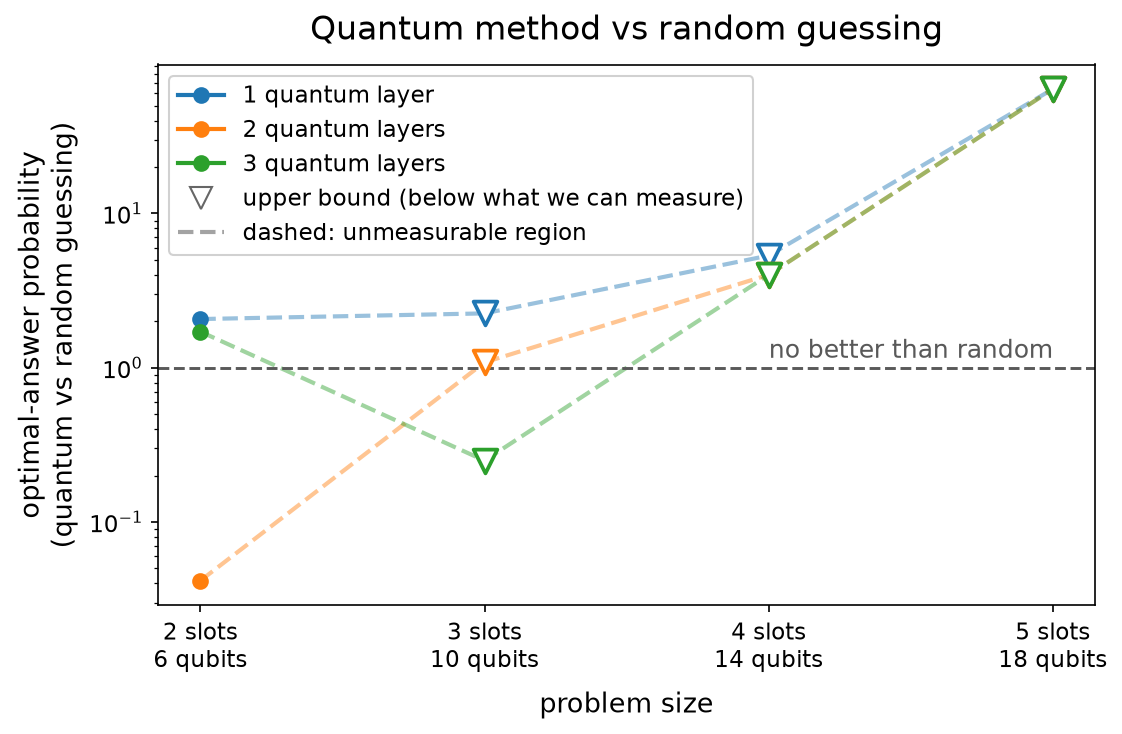
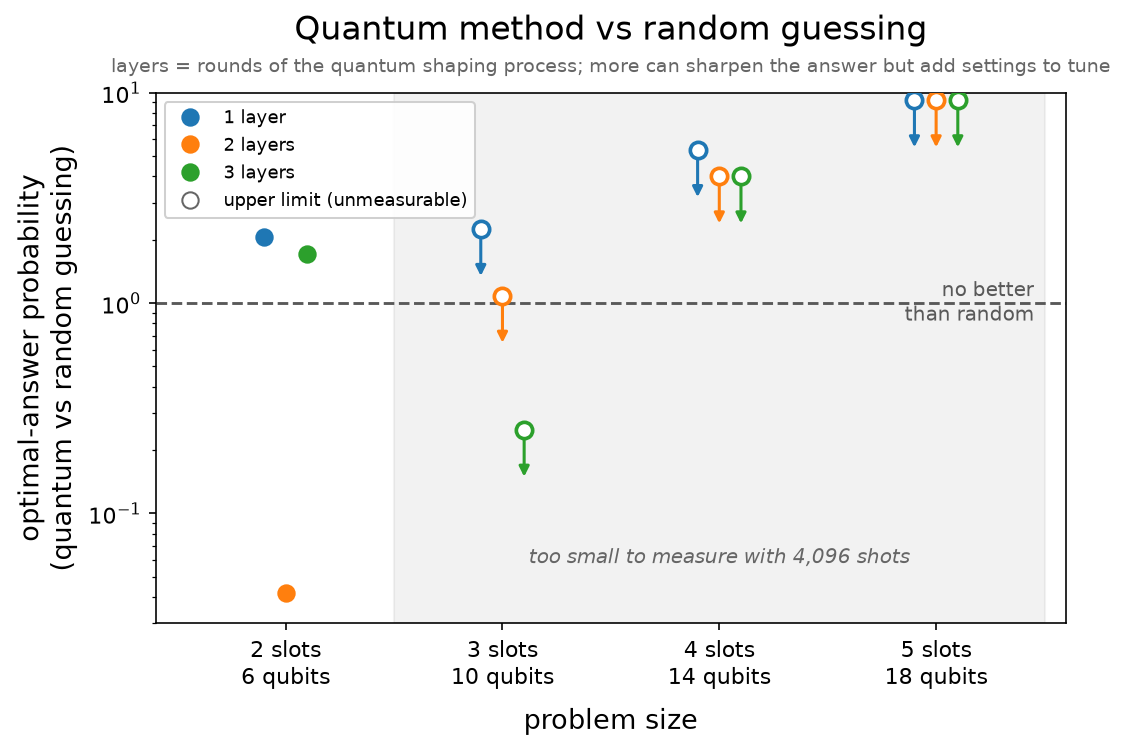
Revise mass-ratio web figure: upper-limit markers, unmeasurable band, layer gloss

diff --git a/scripts/make_mass_ratio_figure.py b/scripts/make_mass_ratio_figure.py
@@ -10,7 +10,19 @@ docs/results/ (which experiment_scaling.make_all_plots regenerates on a full
 sweep). Separate paths guarantee a future sweep can never overwrite this polished,
 honesty-annotated figure with the plain experiment version.
 
-    python scripts/make_mass_ratio_figure.py
+Presentation choices that keep the picture honest at a glance:
+  - Points where at least one seed's optimal mass fell below the 1/4096 shot-noise
+    floor are only UPPER LIMITS. They are drawn as unconnected hollow markers with
+    a downward arrow (the standard upper-limit convention) and are NEVER joined by
+    lines. Earlier dashed lines through these points rose steeply to the right and
+    read as "advantage grows with scale" - the exact misreading to avoid. The
+    ceilings rise only because the uniform baseline shrinks exponentially with
+    qubits, inflating what 4096 shots could even detect; the real signal there is
+    unmeasurable, not large.
+  - The all-upper-limit region is shaded and labeled "too small to measure".
+  - The y-axis is capped near 10 so the inflated large-size ceilings do not
+    dominate the frame. Any upper limit above the cap is drawn at the cap with its
+    arrow (its true ceiling is off-scale and meaningless).
 
 Caption suggestion (for the blog post):
   This chart asks a simple question: does the quantum optimizer (QAOA) find the
@@ -18,12 +30,20 @@ Caption suggestion (for the blog post):
   grey line beat random; points on it are no better than chance. Only at the
   smallest problem (2 slots, filled dots) do all our runs place enough
   probability on the best answer to measure this directly, and even there the
-  result is mixed: a modest edge at 1 and 3 quantum layers, but worse than random
-  at 2. For every larger problem, at least one run's success falls below the
-  resolution of 4096 samples, so those values are only upper bounds (hollow
-  triangles, dashed lines) and cannot confirm any advantage. The honest takeaway:
-  a small, depth-dependent edge at the smallest size, and no measurable quantum
-  advantage as the problem scales up.
+  result is mixed: a modest edge at 1 and 3 layers, but worse than random at 2.
+  For every larger problem, at least one run's success falls below the resolution
+  of 4096 samples, so those values are only upper limits (hollow markers with
+  downward arrows in the shaded band) and cannot confirm any advantage; some
+  ceilings are off the top of the chart and are drawn at the cap. The honest
+  takeaway: a small, depth-dependent edge at the smallest size, and no measurable
+  quantum advantage as the problem scales up.
+
+  Each "layer" is one round of the quantum algorithm's shaping process - more
+  layers can sharpen the answer in theory, but they also add more settings to tune
+  (and, on real hardware, more noise). That is also why deeper is not always
+  better in the data itself: each layer adds tunable angles for the classical
+  optimizer to set, and it can land badly - which is why the 2-layer point at 2
+  slots sits below the 1-layer one.
 """
 
 import sys
@@ -35,81 +55,98 @@ matplotlib.use("Agg")
 
 import matplotlib.pyplot as plt  # noqa: E402
 import numpy as np  # noqa: E402
+from matplotlib.lines import Line2D  # noqa: E402
 
 sys.path.insert(0, str(Path(__file__).resolve().parent))
 import experiment_scaling as exp  # noqa: E402
 
-# Curated web figure path — separate from docs/results/ so the experiment sweep
-# can never overwrite it (see module docstring).
 OUT = Path(__file__).resolve().parent.parent / "docs" / "figures" / "web" / "mass_ratio.png"
+Y_CAP = 10.0  # inflated large-size ceilings are clamped here
+
+
+def _draw_upper_limit(ax, x, y, color):
+    """Hollow marker with a short downward arrow (upper-limit convention)."""
+    clamped = y > Y_CAP
+    yv = 0.92 * Y_CAP if clamped else y
+    ax.plot([x], [yv], marker="o", markersize=8, markerfacecolor="white",
+            markeredgecolor=color, markeredgewidth=1.8, linestyle="none", zorder=5)
+    ax.annotate("", xy=(x, yv / 1.75), xytext=(x, yv / 1.06),
+                arrowprops=dict(arrowstyle="-|>", color=color, lw=1.5), zorder=5)
+    return clamped
 
 
 def main():
     rows = [r for r in exp.load_results() if not np.isnan(r.get("mass_ratio", float("nan")))]
     slot_counts = sorted({r["T"] for r in rows})
     layer_counts = sorted({r["reps"] for r in rows})
+    colors = {reps: f"C{i}" for i, reps in enumerate(layer_counts)}
 
-    fig, ax = plt.subplots(figsize=(7.6, 5.0))
-    colors = [f"C{i}" for i in range(len(layer_counts))]
+    fig, ax = plt.subplots(figsize=(7.8, 5.2))
 
-    for color, reps in zip(colors, layer_counts):
-        pts = []  # (T, ratio, is_upper_bound)
+    # For each T, is every layer count only an upper limit? (the unmeasurable region)
+    all_bound_T = []
+    for T in slot_counts:
+        groups = [[r for r in rows if r["T"] == T and r["reps"] == reps] for reps in layer_counts]
+        groups = [g for g in groups if g]
+        if groups and all(any(r["mass_ratio_is_upper_bound"] for r in g) for g in groups):
+            all_bound_T.append(T)
+
+    if all_bound_T:
+        ax.axvspan(min(all_bound_T) - 0.5, max(all_bound_T) + 0.5,
+                   color="0.5", alpha=0.1, zorder=0)
+        ax.text((min(all_bound_T) + max(all_bound_T)) / 2, 0.055,
+                "too small to measure with 4,096 shots",
+                ha="center", va="bottom", fontsize=10, style="italic", color="0.4")
+
+    clamped_any = False
+    for reps in layer_counts:
+        color = colors[reps]
+        dodge = (reps - np.mean(layer_counts)) * 0.10
+        measured = []
         for T in slot_counts:
             group = [r for r in rows if r["T"] == T and r["reps"] == reps]
             if not group:
                 continue
-            # The plotted value is a seed-average; if ANY seed fell below the
-            # measurement floor (its ratio used 1/4096 as a placeholder), the
-            # average is itself only an upper bound.
-            pts.append((T, float(np.mean([r["mass_ratio"] for r in group])),
-                        any(r["mass_ratio_is_upper_bound"] for r in group)))
+            y = float(np.mean([r["mass_ratio"] for r in group]))
+            x = T + dodge
+            if any(r["mass_ratio_is_upper_bound"] for r in group):
+                clamped_any |= _draw_upper_limit(ax, x, y, color)
+            else:
+                measured.append((x, y))
+        if measured:  # solid measured points, joined only to each other
+            xs, ys = zip(*measured)
+            ax.plot(xs, ys, color=color, marker="o", markersize=8, linewidth=2, zorder=4)
 
-        # Draw each segment solid where measured, dashed/faded where it leads into
-        # an upper-bound point, so a rising line is never mistaken for a real gain.
-        for (x0, y0, u0), (x1, y1, u1) in zip(pts, pts[1:]):
-            uncertain = u0 or u1
-            ax.plot([x0, x1], [y0, y1], color=color, linewidth=2, zorder=2,
-                    linestyle="--" if uncertain else "-", alpha=0.45 if uncertain else 1.0)
-        conf = [(x, y) for x, y, u in pts if not u]
-        if conf:
-            ax.plot(*zip(*conf), linestyle="none", marker="o", markersize=7, color=color)
-        ub = [(x, y) for x, y, u in pts if u]
-        if ub:
-            ax.scatter(*zip(*ub), marker="v", s=130, facecolors="white",
-                       edgecolors=color, linewidths=1.8, zorder=4)
-
-    # Reference line: parity with random guessing.
-    ax.axhline(1.0, color="0.35", linestyle="--", linewidth=1.4)
-    ax.text(slot_counts[-1], 1.06, "no better than random", color="0.35",
-            fontsize=12, ha="right", va="bottom")
+    # Parity reference.
+    ax.axhline(1.0, color="0.35", linestyle="--", linewidth=1.4, zorder=1)
+    ax.text(slot_counts[-1] + 0.45, 1.0, "no better\nthan random", color="0.35",
+            fontsize=10, ha="right", va="center")
 
     ax.set_yscale("log")
+    ax.set_ylim(0.03, Y_CAP)
+    ax.set_xlim(slot_counts[0] - 0.6, slot_counts[-1] + 0.6)
     ax.set_xticks(slot_counts)
     ax.set_xticklabels([f"{T} slots\n{4 * T - 2} qubits" for T in slot_counts], fontsize=11)
     ax.tick_params(axis="y", labelsize=11)
     ax.set_xlabel("problem size", fontsize=13, labelpad=8)
     ax.set_ylabel("optimal-answer probability\n(quantum vs random guessing)", fontsize=13)
-    ax.set_title("Quantum method vs random guessing", fontsize=16, pad=12)
+    ax.set_title("Quantum method vs random guessing", fontsize=16, pad=26)
+    ax.text(0.5, 1.03,
+            "layers = rounds of the quantum shaping process; more can sharpen the "
+            "answer but add settings to tune",
+            transform=ax.transAxes, ha="center", va="bottom", fontsize=9.5, color="0.4")
 
-    # Legend: one entry per layer count, plus plain-language notes on the markers.
-    handles = [
-        plt.Line2D([], [], color=color, marker="o", markersize=7, linewidth=2,
-                   label=f"{reps} quantum layer" + ("s" if reps > 1 else ""))
-        for color, reps in zip(colors, layer_counts)
-    ]
-    handles += [
-        plt.Line2D([], [], marker="v", markerfacecolor="white", markeredgecolor="0.4",
-                   linestyle="none", markersize=11,
-                   label="upper bound (below what we can measure)"),
-        plt.Line2D([], [], color="0.4", linestyle="--", linewidth=2, alpha=0.6,
-                   label="dashed: unmeasurable region"),
-    ]
-    ax.legend(handles=handles, fontsize=11, loc="upper left", framealpha=0.9)
+    handles = [Line2D([], [], color=colors[reps], marker="o", linestyle="none",
+                      markersize=8, label=f"{reps} layer" + ("s" if reps > 1 else ""))
+               for reps in layer_counts]
+    handles.append(Line2D([], [], marker="o", markerfacecolor="white", markeredgecolor="0.4",
+                          linestyle="none", markersize=8, label="upper limit (unmeasurable)"))
+    ax.legend(handles=handles, fontsize=9, loc="upper left", framealpha=0.92)
 
     fig.tight_layout()
     OUT.parent.mkdir(parents=True, exist_ok=True)
-    fig.savefig(OUT, dpi=150, bbox_inches="tight")
-    print(f"wrote {OUT}")
+    fig.savefig(OUT, dpi=147, bbox_inches="tight")  # ~1140 px wide
+    print(f"wrote {OUT}  (off-scale upper limits clamped: {clamped_any})")
 
 
 if __name__ == "__main__":